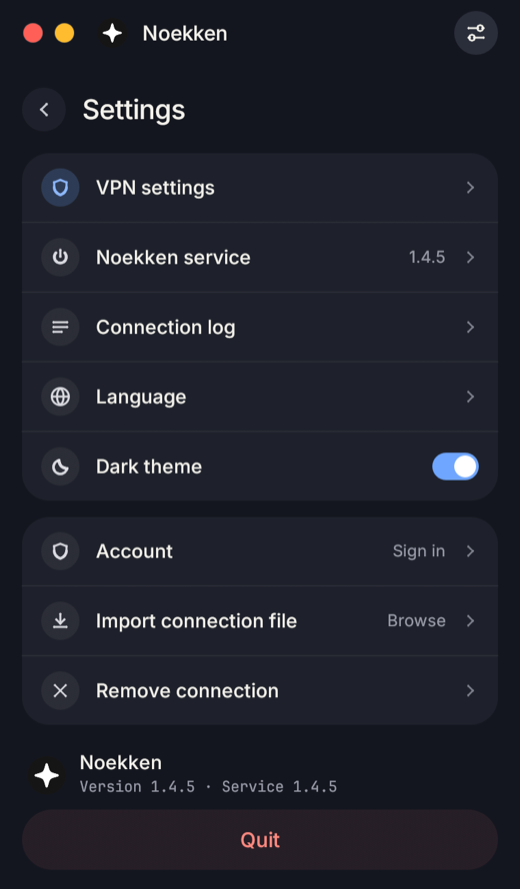
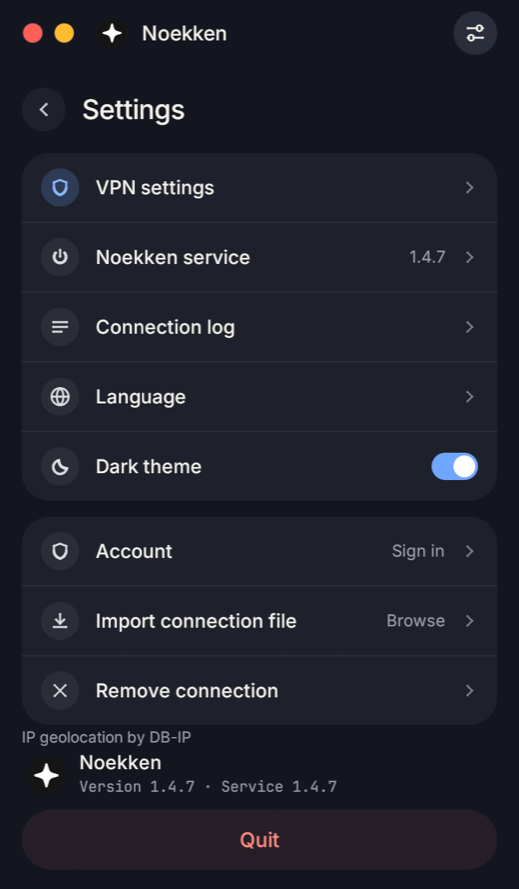
README for 1.4.7

diff --git a/README.md b/README.md
@@ -7,7 +7,7 @@
 **A VPN that does not ask who you are.**
 
 No email, no password, no name: your account is a random key, and we keep only its hash.<br>
-The tunnel looks like ordinary HTTPS, so networks that hunt for VPNs have little to go on.
+Your traffic is encrypted all the way from your device to our servers, so public Wi-Fi, hotels and airports see only an encrypted connection.
 
 [![Latest release](https://img.shields.io/github/v/release/houqai/noekken-app?label=latest&style=flat-square&color=2f9e6e)](https://github.com/houqai/noekken-app/releases/latest)
 ![Windows · macOS · Linux · Android](https://img.shields.io/badge/Windows%20·%20macOS%20·%20Linux%20·%20Android-4b5563?style=flat-square)
@@ -28,7 +28,7 @@ The tunnel looks like ordinary HTTPS, so networks that hunt for VPNs have little
 
 <picture>
   <source media="(prefers-color-scheme: dark)" srcset="assets/connected-dark.png">
-  <img src="assets/connected-light.png" width="250" alt="Connected to Switzerland">
+  <img src="assets/connected-light.png" width="250" alt="Connected to Finland">
 </picture>
 &nbsp;
 <picture>
@@ -52,10 +52,10 @@ The tunnel looks like ordinary HTTPS, so networks that hunt for VPNs have little
 
 ## Why Noekken
 
-- **Nothing that points to you.** An account is a random key. We have no email, name or password on file, so there is nothing about you to hand over and nothing to leak.
-- **Hard to single out.** The tunnel looks like a regular TLS connection to a real website. Networks that block VPNs by the shape of their traffic have little to go on.
-- **One file, every route.** Your connection file carries every location of your plan and several ways into each. If one address gets blocked, the app moves on to the next.
-- **Anti-censor locations.** Locations marked *Anti-censor* reach the server through a CDN, for networks where direct connections are cut.
+- **Nothing that points to you.** An account is a random key. We have no email, name or password on file, so there is nothing about you to leak or sell.
+- **Private on any network.** Your traffic leaves the device inside a TLS-encrypted tunnel. Whoever runs the network you are on sees an encrypted connection, not the sites you open or what you send.
+- **One file, every route.** Your connection file carries every location of your plan and several routes to each. If one server is unreachable, the app moves on to the next.
+- **CDN locations.** Locations marked *CDN* reach the server through a content delivery network, for when a direct route to it is slow or unreachable.
 - **No leaks while reconnecting.** If the tunnel drops, the app keeps traffic from going around it until it is back.
 
 ## Download
